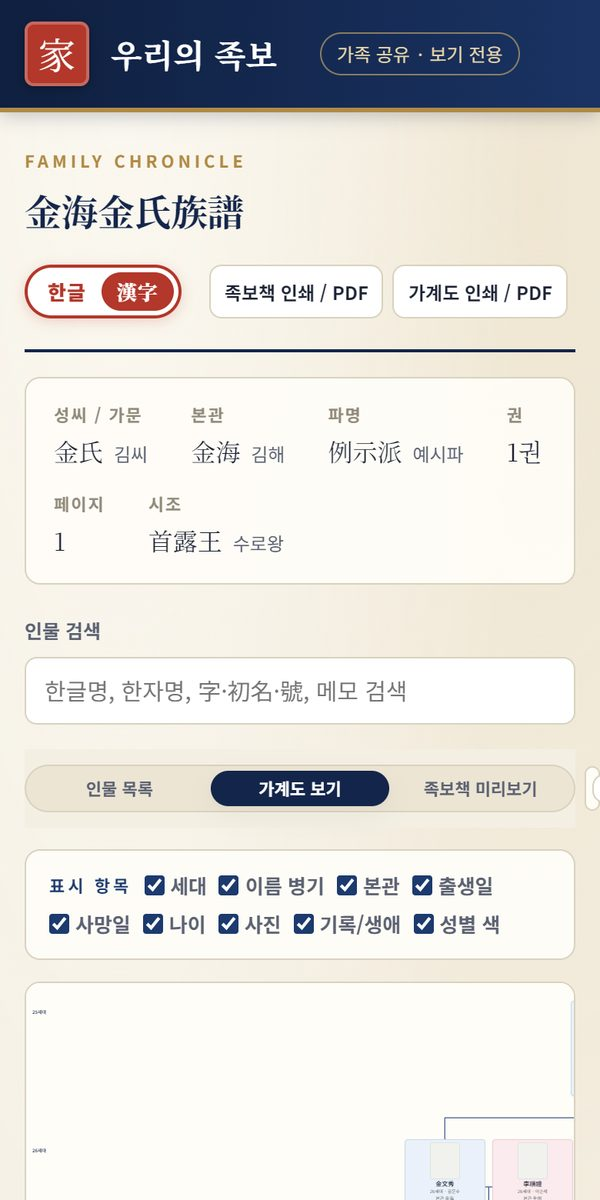
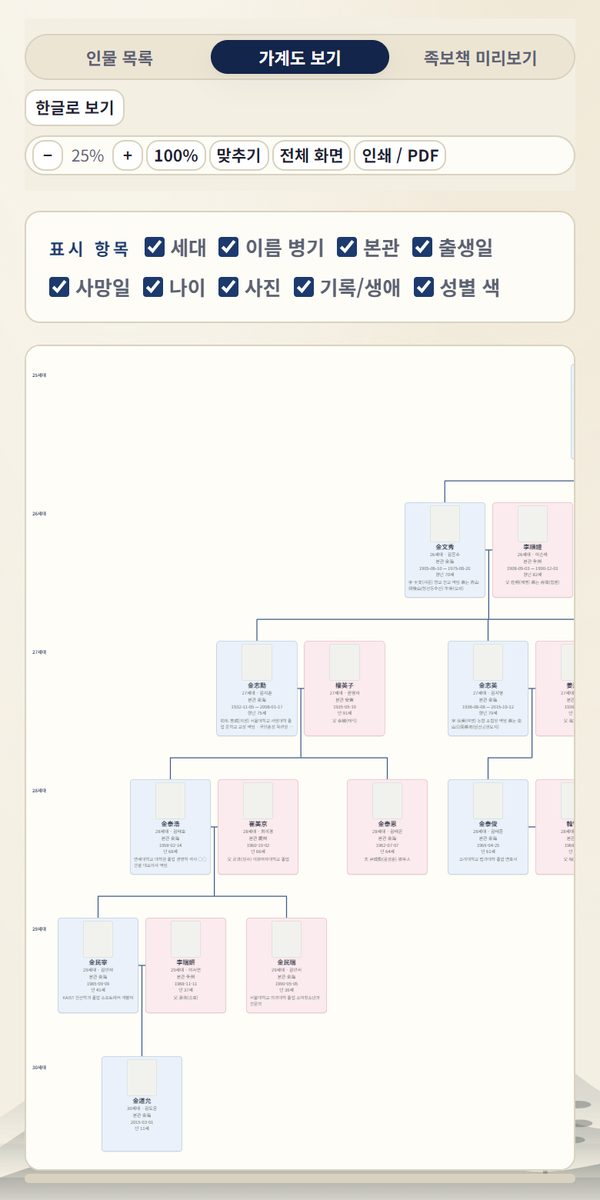
Tidy the promotion page on phones and open shared trees fitted
- On phones the page's buttons run full width and alike, the header keeps one
  button, the exe link sits on its own line, the price note drops under the
  price, and program screenshots are cropped to the page area so their words
  can be read.
- The phone screenshot is retaken now that the zoom bar fits on screen.
- A shared tree on a phone waited 300ms before fitting, and the book arriving
  later redrew it at 100%; it now fits once the cards are drawn.

diff --git a/share/web/landing.html b/share/web/landing.html
@@ -59,6 +59,7 @@
   .hero .actions { display: flex; flex-wrap: wrap; gap: 12px; margin-bottom: 14px; }
   .hero .note { color: #aeb8cc; font-size: 13px; margin: 0 0 44px; }
   .hero .note a { color: #d5dcea; }
+  .hero .note .exe { margin-left: 10px; white-space: nowrap; }
   .btn .old { color: #ffffff99; font-weight: 500; text-decoration: line-through; }
   .hero .shot { border-radius: 14px 14px 0 0; box-shadow: 0 -10px 40px #0006; border: 1px solid #ffffff22; border-bottom: 0; }
 
@@ -131,6 +132,22 @@
     section { padding: 60px 0; }
     .hero { padding-top: 48px; }
   }
+
+  /* 휴대폰: 단추는 폭을 같게 꽉 채우고, PC 화면 사진은 본문 쪽을 크게 잘라 글자가 보이게 합니다. */
+  @media (max-width: 600px) {
+    header .wrap { gap: 10px; }
+    header .btn-outline { display: none; }
+    .brand { font-size: 18px; }
+    .hero .actions, .cta .actions { flex-direction: column; align-items: stretch; }
+    .hero .actions .btn, .cta .actions .btn { width: 100%; }
+    .hero .note .exe { display: block; margin: 6px 0 0; }
+    .hero .shot, .feature .pic:not(.phone) img {
+      aspect-ratio: 4 / 3; object-fit: cover; object-position: 72% 0;
+    }
+    .feature { gap: 20px; margin-bottom: 52px; }
+    .price small { display: block; margin-top: 4px; }
+    .plan { padding: 24px 20px; }
+  }
 </style>
 </head>
 <body>
@@ -151,8 +168,8 @@
       <a class="btn btn-primary" href="#" data-store>Microsoft Store에서 무료로 받기</a>
       <a class="btn btn-outline" href="#" data-buy>정식판 구매하기 <span class="old">₩49,000</span> ₩29,000</a>
     </div>
-    <p class="note">Windows 10·11 · 인물 20명까지 무료 · 내 기록은 내 PC에 ·
-      <a href="https://github.com/kimheunghan/jocbo/releases/latest/download/jocbo-setup.exe">설치 파일(exe) 직접 받기</a></p>
+    <p class="note">Windows 10·11 · 인물 20명까지 무료 · 내 기록은 내 PC에
+      <a class="exe" href="https://github.com/kimheunghan/jocbo/releases/latest/download/jocbo-setup.exe">설치 파일(exe) 직접 받기</a></p>
     <img class="shot" src="/img/tree.jpg" alt="가계도 보기 화면 — 세대별로 부부와 자녀가 이어진 가계도">
   </div>
 </div>

diff --git a/share/web/share.js b/share/web/share.js
@@ -75,7 +75,16 @@
         shown = true;
         document.querySelector('[data-view="tree"]')?.click();
         // 휴대폰처럼 좁은 화면에서는 가계도 전체가 한 화면에 들어오게 맞춰 엽니다.
-        if (window.innerWidth <= 640) setTimeout(() => document.querySelector('[data-zoom="fit"]')?.click(), 300);
+        // 족보가 도착해 가계도가 다시 그려진 뒤에 맞춰야 하므로, 인물 카드가 생길 때까지 기다립니다.
+        if (window.innerWidth <= 640) {
+          const started = Date.now();
+          const fit = () => {
+            if (document.querySelector('.zoom-scroll [data-tree-person]')) {
+              setTimeout(() => document.querySelector('[data-zoom="fit"]')?.click(), 150);
+            } else if (Date.now() - started < 15000) setTimeout(fit, 100);
+          };
+          fit();
+        }
       }
     }).observe(workspace, { attributes: true, attributeFilter: ['hidden'] });
   }
